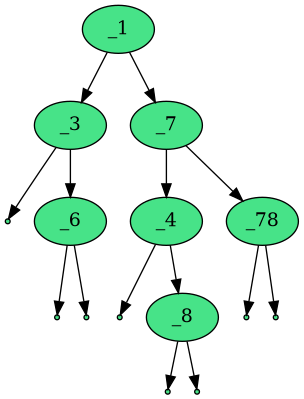
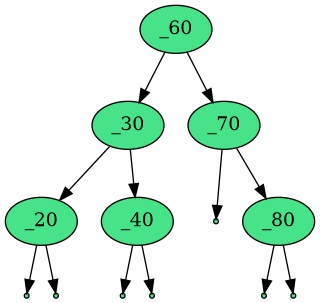
Se agrega eliminarNodo
También se reestructuran un poco otras cosas para un mejor orden y visibilidad del código.

diff --git a/arbol_binario.cpp b/arbol_binario.cpp
@@ -1,7 +1,7 @@
 #include <limits>
+#include <vector> // Para guardar valores iniciales en lista
 #include <fstream>
 #include <iostream>
-#include <vector> // Para guardar valores iniciales en lista
 
 using namespace std;
 
@@ -21,8 +21,8 @@ Nodo* crearNodo(const int data) {
 }
 
 
-// Controles de entrada para evadir errores...
-
+/* =========================||
+Controles de entrada para evadir errores...*/
 // Usuario debe escribir char
 char userDecision(){ // from: https://stackoverflow.com/questions/43972500/how-to-only-accept-y-or-n-in-users-input-in-c
     char userAnswer;
@@ -54,27 +54,8 @@ int controlINT() {
 }
 
 
-// Busca un valor en el arbol y devuelve un puntero al nodo si existe, nullptr si no
-Nodo* buscarNodo(Nodo* nodo, int valor) {
-    if (nodo == nullptr){
-        return nullptr;
-    }
-
-    if (nodo->info == valor){
-        return nodo;
-    } 
-
-    Nodo* encontrado = buscarNodo(nodo->izquierda, valor);
-
-    if (encontrado != nullptr){
-        return encontrado;
-    }
-    
-    return buscarNodo(nodo->derecha, valor);
-}
-
-
-
+/* =========================||
+Sobre el arbol...*/
 // Funcion recursiva para construir el arbol manualmente
 void crearArbol(Nodo* &apnodo, vector<int>& lista) {
     if (apnodo == nullptr) {
@@ -94,7 +75,6 @@ void crearArbol(Nodo* &apnodo, vector<int>& lista) {
                     break;
                 }
             }
-
             if (existe == true) {
                 cout << "⚠  El nodo " << valor << " ya existe, intente nuevamente.\n";
             } else {
@@ -102,21 +82,17 @@ void crearArbol(Nodo* &apnodo, vector<int>& lista) {
                 break;
             }
         }
-
         apnodo = crearNodo(valor);
     }
 
     char resp;
-
     // Preguntar por hijo izquierdo
     cout << "◀ ¿Existe nodo a la izquierda de " << apnodo->info << "? ";
     resp = userDecision();
+    apnodo->izquierda = nullptr; // inicializar
     if (resp == 's') {
-        apnodo->izquierda = nullptr; // inicializar
         crearArbol(apnodo->izquierda, lista); // llamada recursiva
-    } else {
-        apnodo->izquierda = nullptr;
-    }
+    } 
 
     // Preguntar por hijo derecho
     cout << "▶ ¿Existe nodo a la derecha de " << apnodo->info << "? ";
@@ -129,13 +105,35 @@ void crearArbol(Nodo* &apnodo, vector<int>& lista) {
     }
 }
 
+// Busca un valor en el arbol y devuelve un puntero al nodo si existe, nullptr si no
+Nodo* buscarNodo(Nodo* nodo, int valor) {
+    if (nodo == nullptr){
+        // No se encuentra valor
+        return nullptr;
+    }
+
+    if (nodo->info == valor){
+        // Se encuentra valor -> devuelve puntero
+        return nodo;
+    } 
+
+    // Buscar subarbol izquierdo
+    Nodo* encontrado = buscarNodo(nodo->izquierda, valor);
+
+    if (encontrado != nullptr){
+        // Se encuentra valor izquierdo -> devuelve puntero
+        return encontrado;
+    }
+    
+    // Buscar subarbol derecho
+    return buscarNodo(nodo->derecha, valor);
+}
 
 
-
-// Ediciones del Arbol...
-
+/* =========================||
+Ediciones del Arbol...*/
 // Insercion en Arbol
-void insertarEnArbol(Nodo* &apnodo, int infor) {
+void insertarNodo(Nodo* &apnodo, int infor) {
     if (apnodo == nullptr) {
         // arbol o subarbol vacio, crear nuevo nodo
         apnodo = crearNodo(infor);
@@ -145,7 +143,7 @@ void insertarEnArbol(Nodo* &apnodo, int infor) {
         if (apnodo->izquierda == nullptr) {
             apnodo->izquierda = crearNodo(infor);
         } else {
-            insertarEnArbol(apnodo->izquierda, infor); // llamada recursiva
+            insertarNodo(apnodo->izquierda, infor); // llamada recursiva
         }
     } 
     else if (infor > apnodo->info) {
@@ -153,16 +151,62 @@ void insertarEnArbol(Nodo* &apnodo, int infor) {
         if (apnodo->derecha == nullptr) {
             apnodo->derecha = crearNodo(infor);
         } else {
-            insertarEnArbol(apnodo->derecha, infor); // llamada recursiva
+            insertarNodo(apnodo->derecha, infor); // llamada recursiva
         }
     } 
 }
 
-// Eliminar de ArbolNOTYET
+// Eliminar en Arbol
+void eliminarNodo(Nodo* &apnodo, int valor) {
+    // Buscar el nodo recursivamente
+    if (valor < apnodo->info) {
+        eliminarNodo(apnodo->izquierda, valor);
+    } 
+    else if (valor > apnodo->info) {
+        eliminarNodo(apnodo->derecha, valor);
+    } 
+    else {
+        // Caso 1: Nodo hoja 
+        if (apnodo->izquierda == nullptr && apnodo->derecha == nullptr) { // (No hay nodo a la izquierda ni derecha)
+            delete apnodo;
+            // Se redifine puntero a null
+            apnodo = nullptr;
+        }
+
+        // Caso 2: Un solo hijo 
+        else if (apnodo->izquierda == nullptr) { // (Nodo a la izquierda...
+            Nodo* temp = apnodo;
+            apnodo = apnodo->derecha;
+            delete temp;
+        }
+        else if (apnodo->derecha == nullptr) { //... o derecha)
+            Nodo* temp = apnodo;
+            apnodo = apnodo->izquierda;
+            delete temp;
+        }
+
+        // Caso 3: Dos hijos 
+        else { // (Nodo a la izquierda y derecha)
+            // Se usa el mas a la izquierda del subarbol derecho
+            Nodo* sucesor = apnodo->derecha;
+            while (sucesor->izquierda != nullptr){
+                sucesor = sucesor->izquierda;
+            }
+            
+            // Copiar valor del sucesor al nodo actual
+            apnodo->info = sucesor->info;
+
+            // Eliminar el nodo duplicado en el subarbol derecho
+            eliminarNodo(apnodo->derecha, sucesor->info);
+        }
+    }
+}
 
 
-// Sobre el grafo...
 
+
+/* =========================||
+Sobre el grafo...*/
 // Recorrer el arbol en preorden y escribir en el archivo
 void recorrer(Nodo* nodo, ofstream& fp) {
     if (nodo != nullptr) {
@@ -191,7 +235,6 @@ void recorrer(Nodo* nodo, ofstream& fp) {
     }
 }
 
-
 // Generar y mostrar la visualizacion del Arbol
 void visualizarArbol(Nodo* root) {
     ofstream fp("arbolW.txt");
@@ -215,12 +258,8 @@ void visualizarArbol(Nodo* root) {
 }
 
 
-
-
-
-
-// Funciones recursivas para imprimir el arbol...
-
+/* =========================||
+Funciones recursivas para imprimir el arbol...*/
 // En Preorden
 void printPreOrden(Nodo* Nodo) {
     if (Nodo == nullptr) {
@@ -252,6 +291,7 @@ void printPostOrden(Nodo* Nodo) {
 }
 
 
+/* =========================||*/
 // Menu de opciones
 int menu() {
     int opcion = 0;
@@ -280,8 +320,7 @@ int main() {
     cout << "──{ Construccion interactiva del arbol binario }──\n";
     crearArbol(raiz, valoresIniciales);
 
-    // Para despues trabajar con el:
-    
+    // Para despues trabajar con este arbol inicial:
     while (opcion != 6) {
 
         opcion = menu();
@@ -291,35 +330,52 @@ int main() {
             case 1: {
                 cout << "\n> Valor para el nodo nuevo : ";
                 valor = controlINT();
+
                 // Revisa primero si es que valor ya existe
                 Nodo* nodoEncontrado = buscarNodo(raiz, valor);
                 if (nodoEncontrado != nullptr) {
                     // Si es que existe, avisa y vuelve al menu
                     cout << "⚠  El nodo " << valor << " ya existe en el arbol.\n";
                     break;
-                } // Si no existe, lo inserta
-                insertarEnArbol(raiz, valor);
+                } 
+                
+                // Si no existe, lo inserta
+                insertarNodo(raiz, valor);
+                
                 break;
             }
             // 2. ❌ Eliminar nodo.
             case 2: {
-            
+                cout << "Nodos elegibles: [ ";
+                printPreOrden(raiz);
+                cout << " ] > Nodo a eliminar : ";
+
+                valor = controlINT();
+                
+                // Revisa primero si es que valor existe
+                Nodo* nodoEncontrado = buscarNodo(raiz, valor);
+                if (nodoEncontrado != nullptr) {
+                    eliminarNodo(raiz, valor);    
+                } else {
+                    cout << "⚠  El nodo " << valor << " no existe.\n";   
+                }
                 break; 
             }
             // 3. ✍ Modificar nodo.
             case 3: {
+                
 
                 break;
             }
             // 4. 👁 Mostrar recorridos del arbol.
             case 4: {
-                cout << "\n[ Recorrido en preorden: ";
+                cout << "\n[ Recorrido en preorden:   ";
                 printPreOrden(raiz);
 
-                cout << "\t]\n[ Recorrido en inorden: ";
+                cout << "\t]\n[ Recorrido en inorden:   ";
                 printInOrden(raiz);
 
-                cout << "\t]\n[ Recorrido en postorden: ";
+                cout << "\t]\n[ Recorrido en postorden:   ";
                 printPostOrden(raiz);
                 cout << "\t]" << endl;
             
